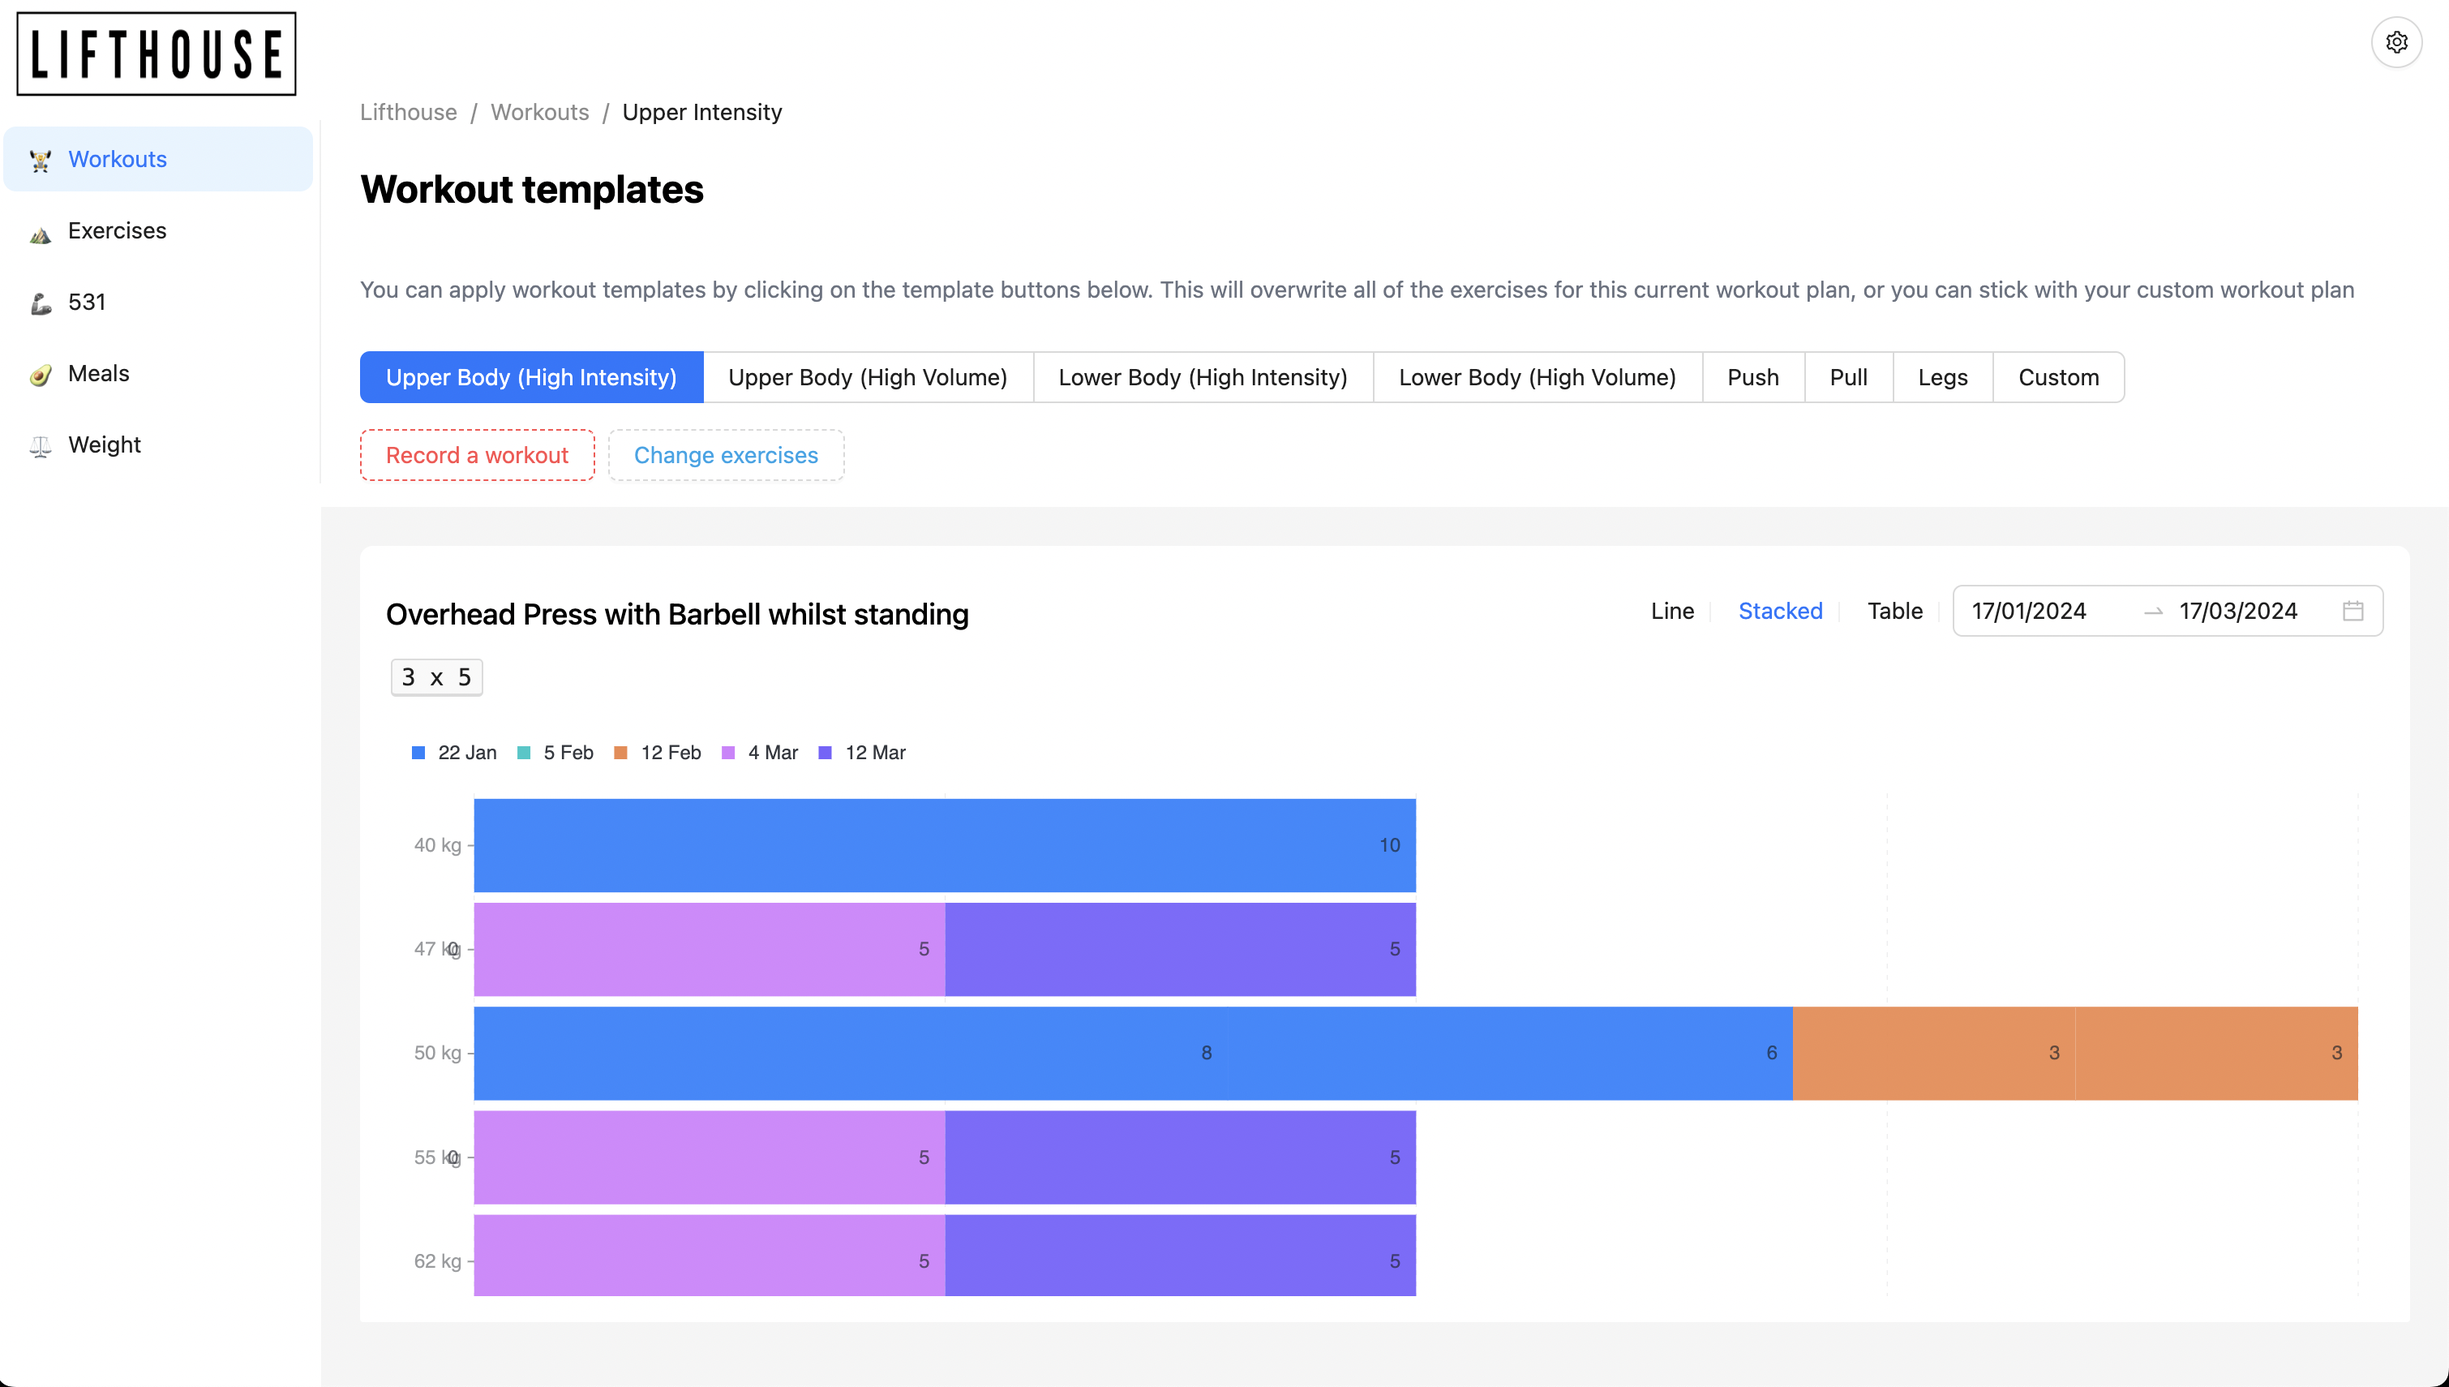
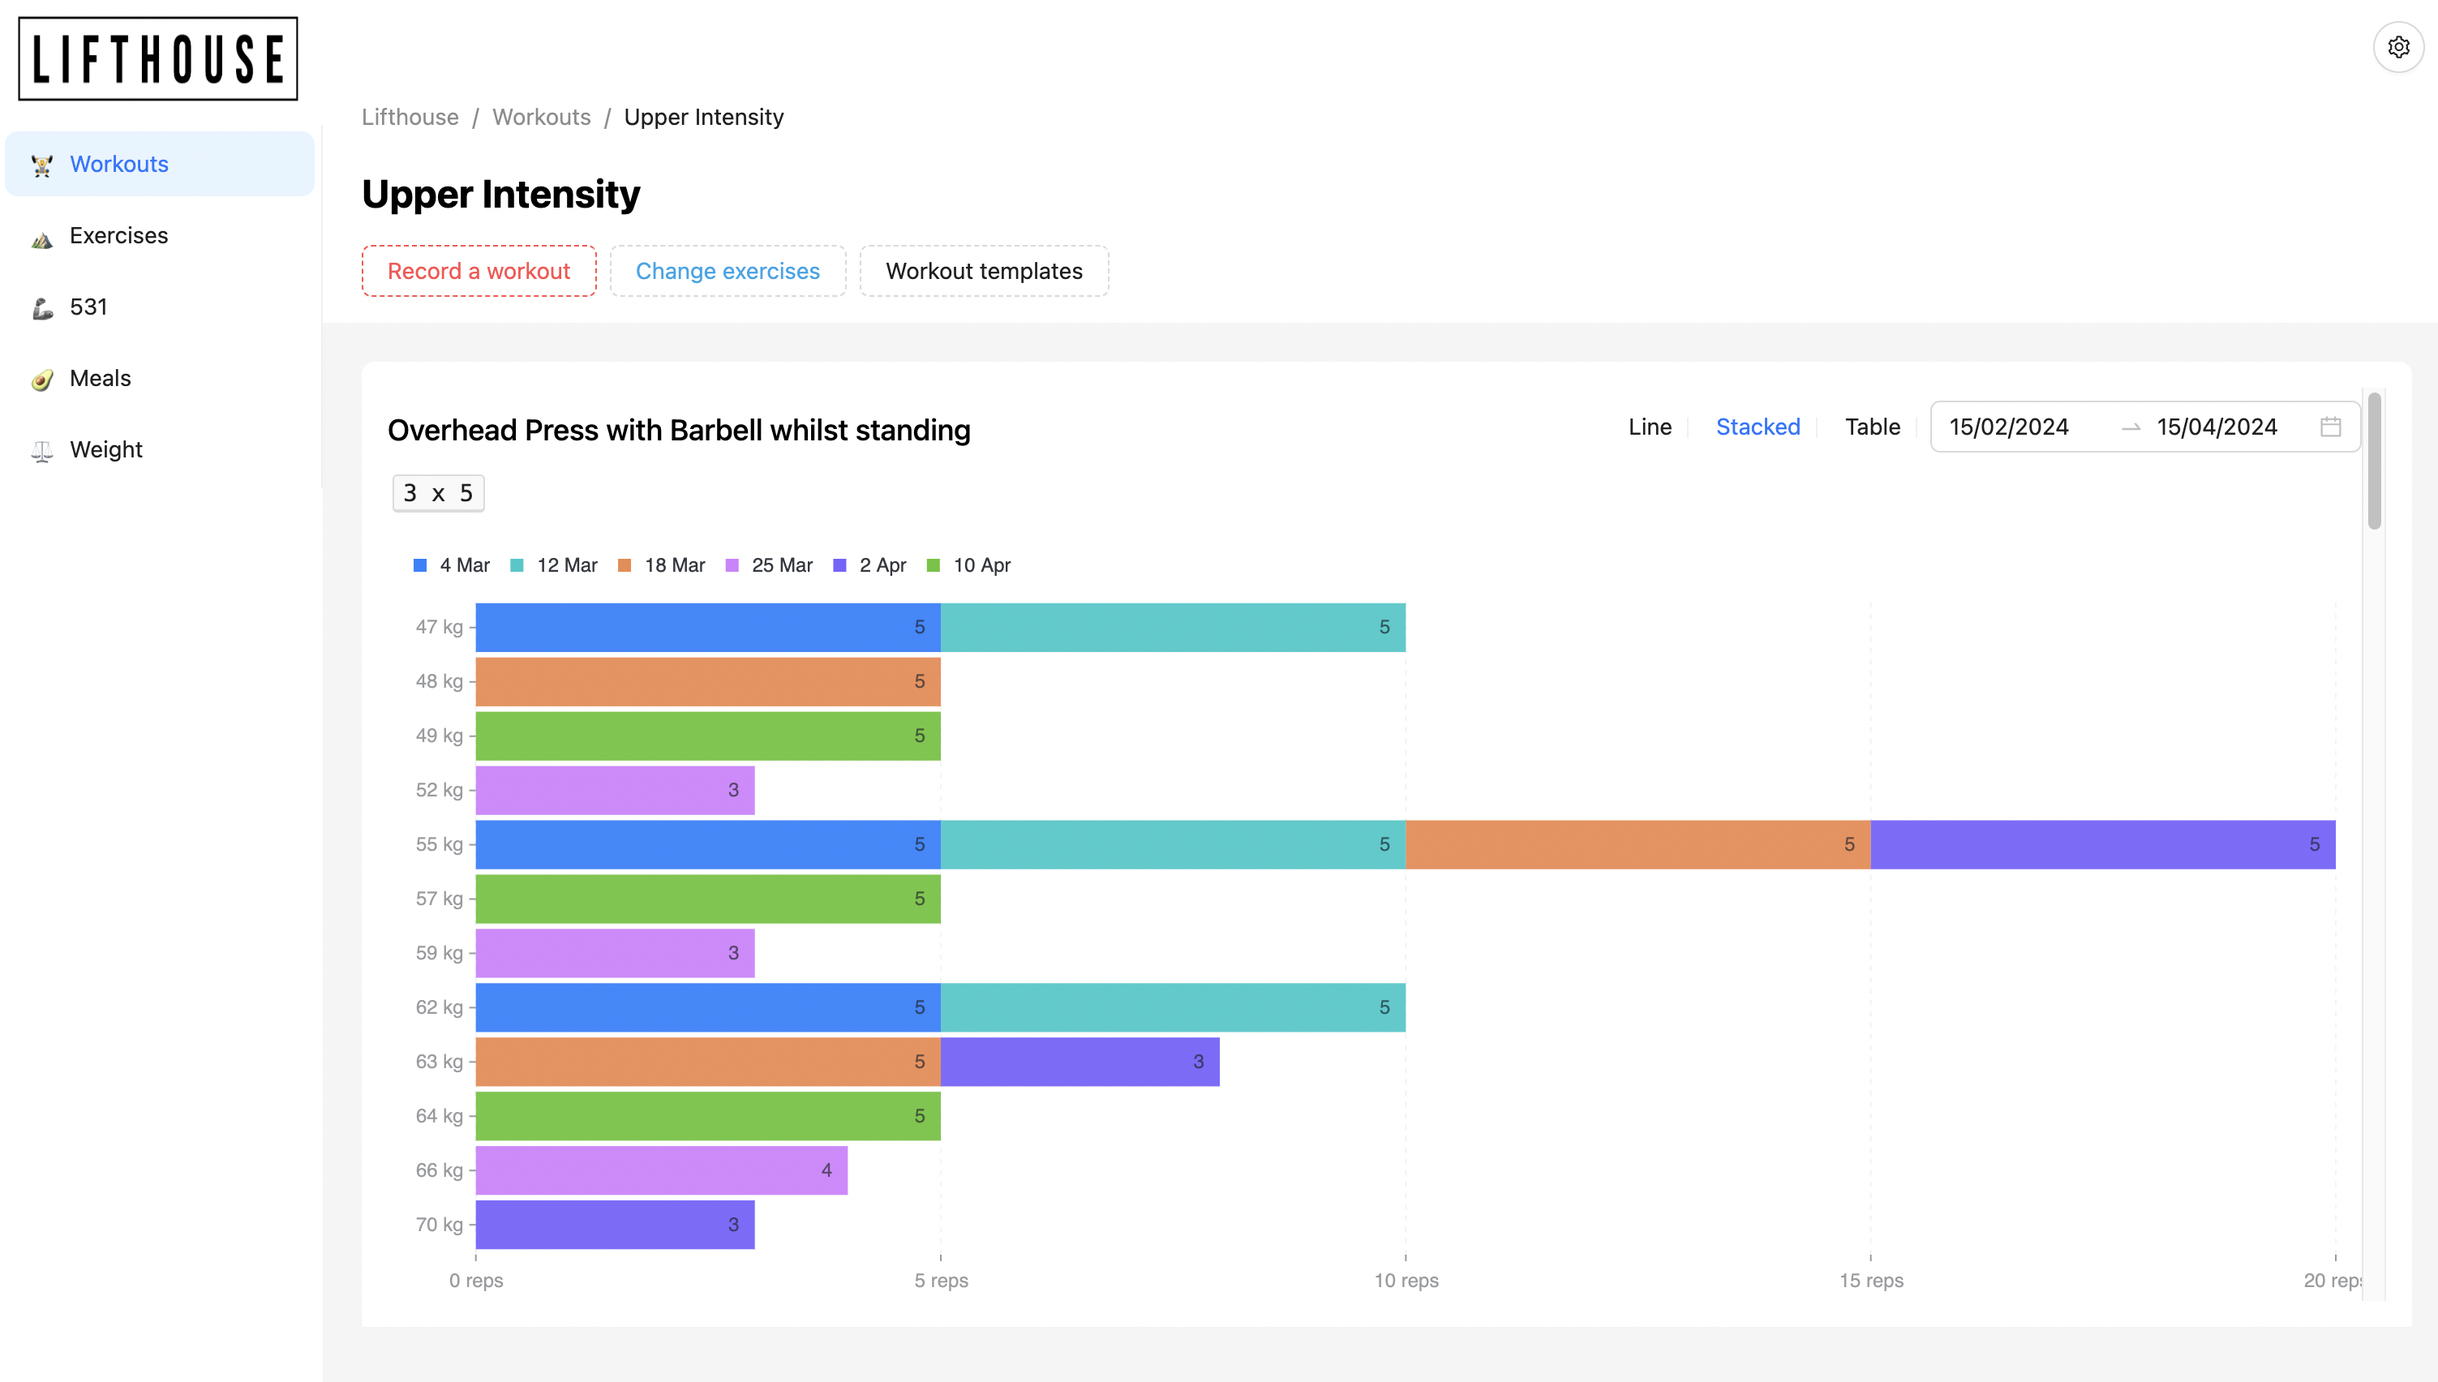
feat: move template info outside of pageinfo to save page space and update readme images

diff --git a/src/app/lifthouse/workouts/[workoutId]/page.tsx b/src/app/lifthouse/workouts/[workoutId]/page.tsx
@@ -1,18 +1,18 @@
 "use client";
 
-import { Button, Layout, Modal, Radio, Space, Tabs } from "antd";
+import { Button, Layout, Modal, Radio, Space } from "antd";
 import { PageInfoPortal } from "../../components/pageInfo";
 import { useState } from "react";
 import AddButton from "../components/addButton";
 import AddExerciseDrawer from "./components/drawers/addExerciseDrawer";
 import { useWorkout } from "../hooks/useWorkout";
 import { WorkoutTemplate } from "@/lib/supabase/db/types";
-import { templateName } from "./utils";
 import { PageAnimation } from "@/app/aniamtions/pageAnimation";
 import { Record } from "./components/drawers/recordDrawer";
 import dynamic from "next/dynamic";
 import { useWorkoutIdContext } from "./context";
 import ChangeExercisesDrawer from "./components/drawers/changeExercisesDrawer";
+import TemplateDrawer from "./components/drawers/templateDrawer";
 
 const Charts = dynamic(() => import("./charts"));
 
@@ -24,6 +24,7 @@ export default function WorkoutPlanPage() {
   const { updateWorkoutPlan, updateTemplate } = useWorkout();
   const [showRecord, setShowRecord] = useState(false);
   const [showEdit, setShowEdit] = useState(false);
+  const [showTemplate, setShowTemplate] = useState(false);
 
   const onAddExerciseClick = async (exerciseId: number) => {
     const defaultExerciseSetup = { exerciseId, sets: 3, reps: "8-12" };
@@ -42,19 +43,6 @@ export default function WorkoutPlanPage() {
     });
   };
 
-  const onClickWorkoutType = (value: WorkoutTemplate) => {
-    Modal.confirm({
-      title: "Are you sure?",
-      content: "This may overwrite your current workout plan",
-      okText: "Yes",
-      cancelText: "No",
-      onOk: async () => {
-        const updatedData = await updateTemplate(workout.workoutId, value);
-        setWorkout(updatedData);
-      },
-    });
-  };
-
   return (
     <PageAnimation
       className={`${workout.exercises.length === 0 ? "" : "h-full"}`}
@@ -62,16 +50,15 @@ export default function WorkoutPlanPage() {
       <Layout className="relative h-full">
         <Content className="h-full bg-white rounded-sm p-4">
           <PageInfoPortal
-            title="Workout templates"
+            title={workout.name}
             extra={
               <PageInfoExtra
                 onClickRecord={() => setShowRecord(!showRecord)}
                 onClickEdit={() => setShowEdit(!showEdit)}
+                onClickWorkoutTemplate={() => setShowTemplate(!showTemplate)}
               />
             }
-          >
-            <WorkoutPageInfo onClickWorkoutType={onClickWorkoutType} />
-          </PageInfoPortal>
+          />
           <AddExerciseDrawer
             drawOpen={drawOpen}
             setDrawOpen={setDrawOpen}
@@ -83,6 +70,11 @@ export default function WorkoutPlanPage() {
           <ChangeExercisesDrawer
             show={showEdit}
             onCancel={() => setShowEdit(false)}
+          />
+          <TemplateDrawer
+            template={workout.template}
+            show={showTemplate}
+            onCancel={() => setShowTemplate(false)}
           />
           {
             <Record
@@ -110,55 +102,24 @@ export default function WorkoutPlanPage() {
 type Props = {
   onClickRecord: () => void;
   onClickEdit: () => void;
+  onClickWorkoutTemplate: () => void;
 };
-function PageInfoExtra({ onClickRecord, onClickEdit }: Props) {
+function PageInfoExtra({
+  onClickRecord,
+  onClickEdit,
+  onClickWorkoutTemplate,
+}: Props) {
   return (
     <Space>
-      <Button type="dashed" danger className="mt-2 m-0" onClick={onClickRecord}>
+      <Button type="dashed" danger onClick={onClickRecord}>
         Record a workout
       </Button>
-      <Button
-        type="dashed"
-        className="text-sky-500 mt-2 m-0"
-        onClick={onClickEdit}
-      >
+      <Button type="dashed" className="text-sky-500" onClick={onClickEdit}>
         Change exercises
       </Button>
-    </Space>
-  );
-}
-
-function WorkoutPageInfo({
-  onClickWorkoutType,
-}: {
-  onClickWorkoutType: (value: WorkoutTemplate) => void;
-}) {
-  const {
-    workout: { template },
-  } = useWorkoutIdContext();
-  return (
-    <Space direction="vertical">
-      <p className="m-0 pb-2 text-gray-500">
-        You can apply workout templates by clicking on the template buttons
-        below. This will overwrite all of the exercises for this current workout
-        plan, or you can stick with your custom workout plan
-      </p>
-      <Radio.Group
-        value={template}
-        buttonStyle="solid"
-        onChange={(value) =>
-          onClickWorkoutType(value.target.value as WorkoutTemplate)
-        }
-      >
-        {/* Can add more templates */}
-        {Object.values(WorkoutTemplate).map((template) => {
-          return (
-            <Radio.Button key={template} value={template}>
-              {templateName[template] || template}
-            </Radio.Button>
-          );
-        })}
-      </Radio.Group>
+      <Button type="dashed" onClick={onClickWorkoutTemplate}>
+        Workout templates
+      </Button>
     </Space>
   );
 }

diff --git a/src/app/lifthouse/workouts/[workoutId]/components/drawers/templateDrawer.tsx b/src/app/lifthouse/workouts/[workoutId]/components/drawers/templateDrawer.tsx
@@ -1,0 +1,66 @@
+import { Alert, Divider, Drawer, Modal, Radio, Space, Tooltip } from "antd";
+import { useWorkout } from "../../../hooks/useWorkout";
+import { useWorkoutIdContext } from "../../context";
+import { WorkoutTemplate } from "@/lib/supabase/db/types";
+import { templateInfo, templateName } from "../../utils";
+import { InfoCircleOutlined } from "@ant-design/icons";
+import TemplateInfo from "../templateInfo";
+
+type TemplateDrawerProps = {
+  template: string;
+  show: boolean;
+  onCancel: () => void;
+};
+export default function TemplateDrawer({
+  template,
+  show,
+  onCancel,
+}: TemplateDrawerProps) {
+  const { workout, setWorkout } = useWorkoutIdContext();
+  const { updateTemplate } = useWorkout();
+
+  const onClickWorkoutType = (value: WorkoutTemplate) => {
+    Modal.confirm({
+      title: "Are you sure?",
+      content: "This may overwrite your current workout plan",
+      cancelText: "No",
+      onOk: async () => {
+        const updatedData = await updateTemplate(workout.workoutId, value);
+        setWorkout(updatedData);
+        onCancel();
+      },
+    });
+  };
+  return (
+    <Drawer title={"Workout Templates"} open={show} onClose={onCancel}>
+      <Space direction="vertical">
+        {/* <Alert className="m-0 pb-2 text-gray-500"> */}
+        <Alert
+          message="You can apply workout templates by clicking on the template buttons
+          below. This will overwrite all of the exercises for this current
+          workout plan, or you can stick with your custom workout plan"
+        ></Alert>
+        <Radio.Group
+          value={workout.template}
+          buttonStyle="solid"
+          onChange={(value) =>
+            onClickWorkoutType(value.target.value as WorkoutTemplate)
+          }
+        >
+          <Space direction="vertical">
+            {/* Can add more templates */}
+            {Object.values(WorkoutTemplate).map((template) => {
+              return (
+                <Radio key={template} value={template}>
+                  {templateName[template] || template}
+                </Radio>
+              );
+            })}
+          </Space>
+        </Radio.Group>
+      </Space>
+      <Divider />
+      <TemplateInfo />
+    </Drawer>
+  );
+}

diff --git a/src/app/lifthouse/workouts/[workoutId]/utils.ts b/src/app/lifthouse/workouts/[workoutId]/utils.ts
@@ -1,10 +1,4 @@
 import { ExerciseType, WorkoutTemplate } from "@/lib/supabase/db/types";
-import {
-  BarChartOutlined,
-  LineChartOutlined,
-  TableOutlined,
-} from "@ant-design/icons";
-import { View } from "../../types";
 
 export const IntensityRepRange = [
   { sets: 3, reps: "3" },
@@ -69,6 +63,22 @@ export const templateName = {
   [WorkoutTemplate.pull]: "Pull",
   [WorkoutTemplate.legs]: "Legs",
   [WorkoutTemplate.custom]: "Custom",
+};
+
+export const templateInfo = {
+  [WorkoutTemplate.upper_intensity]:
+    "Focuses on working out well rounded upper body, hitting all muscle groups in the upper body equally in one session. Primiarily lifting heavy weights and prioritising the compound movements",
+  [WorkoutTemplate.upper_volume]:
+    "Focuses on working out well rounded upper body, hitting all muscle grups in the upper body equally in one session. Primarily focuses on lifting lighter weights but with the mission of having a high amount of volume, so more sets and reps",
+  [WorkoutTemplate.lower_intensity]:
+    "Focuses on working out well rounded lower body, hitting all muscle groups in the upper body equally in one session. Primiarily lifting heavy weights and prioritising the compound movements",
+  [WorkoutTemplate.lower_volume]:
+    "Focuses on working out well rounded lower body, hitting all muscle grups in the upper body equally in one session. Primarily focuses on lifting lighter weights but with the mission of having a high amount of volume, so more sets and reps",
+  [WorkoutTemplate.push]: "Primarily focus on the pushing movements",
+  [WorkoutTemplate.pull]: "Primarily focus on the pulling movements",
+  [WorkoutTemplate.legs]: "Primarily focus on the leg movements",
+  [WorkoutTemplate.custom]:
+    "Create your own custom workout with your own chosen exercises and rep schemes",
 };
 
 export function acceptedExerciseTypesForExercises(template: WorkoutTemplate) {

diff --git a/src/app/lifthouse/meals/components/macroNutrients.tsx b/src/app/lifthouse/meals/components/macroNutrients.tsx
@@ -2,12 +2,15 @@ import React from "react";
 import NumberText from "./number";
 import { HIGHLIGHT_COLOR } from "./constants";
 import { Pie, PieConfig } from "@ant-design/plots";
+import { Skeleton, Spin } from "antd";
+import { LoadingOutlined } from "@ant-design/icons";
 
 interface MacroNutrientsProps {
   calories: number;
   protein: number;
   carbs: number;
   fat: number;
+  isLoading?: boolean;
 }
 
 const MacroNutrients: React.FC<MacroNutrientsProps> = ({
@@ -15,6 +18,7 @@ const MacroNutrients: React.FC<MacroNutrientsProps> = ({
   protein,
   fat,
   carbs,
+  isLoading,
 }) => {
   const config: PieConfig = {
     data: [
@@ -36,22 +40,33 @@ const MacroNutrients: React.FC<MacroNutrientsProps> = ({
     },
   };
 
+  if (isLoading) {
+    return (
+      <Spin
+        style={{ margin: 16 }}
+        indicator={<LoadingOutlined style={{ fontSize: 128 }} spin />}
+      />
+    );
+  }
+
   return (
-    <div className="w-72">
+    <div>
       <div
         className={`flex justify-evenly text-center text-2xl ${HIGHLIGHT_COLOR}`}
       >
         <p className="text-black">Calories</p>
         <NumberText value={calories} />
       </div>
-      {(protein > 0 || carbs > 0 || fat > 0) && (
-        <Pie
-          className="pointer-events-none"
-          {...config}
-          height={200}
-          width={300}
-        />
-      )}
+      <div className="w-72">
+        {(protein > 0 || carbs > 0 || fat > 0) && (
+          <Pie
+            className="pointer-events-none"
+            {...config}
+            height={200}
+            width={300}
+          />
+        )}
+      </div>
     </div>
   );
 };

diff --git a/src/app/lifthouse/workouts/[workoutId]/components/templateInfo.tsx b/src/app/lifthouse/workouts/[workoutId]/components/templateInfo.tsx
@@ -1,0 +1,26 @@
+import { Typography } from "antd";
+import { templateInfo, templateName } from "../utils";
+import { WorkoutTemplate } from "@/lib/supabase/db/types";
+
+const { Text } = Typography;
+
+export default function TemplateInfo() {
+  return (
+    <div>
+      <h1>Template Info</h1>
+      <Text className="text-gray-600">
+        With templates, you can easily create or apply pre-configured workout
+        plans to suit with your goals. Each template will have its own sets of
+        exercise, sets and rep schemes, which you can adjust. The template will
+        give you options on what exercises to do and how many sets and reps to
+        do.
+      </Text>
+      {Object.keys(templateInfo).map((key) => (
+        <div key={key}>
+          <h3>{templateName[key as WorkoutTemplate]}</h3>
+          <Text>{templateInfo[key as WorkoutTemplate]}</Text>
+        </div>
+      ))}
+    </div>
+  );
+}

diff --git a/src/app/lifthouse/meals/page.tsx b/src/app/lifthouse/meals/page.tsx
@@ -81,15 +81,18 @@ export default function MealsPage() {
   const carbs = mealData?.reduce((acc, curr) => acc + curr.carbs, 0) || 0;
 
   return (
-    <PageAnimation className="flex flex-col items-center">
+    <PageAnimation className="flex flex-col items-center bg-white h-full overflow-y-auto">
       <DateMover selectedDay={selectedDay} setSelectedDay={setSelectedDay} />
       <MacroNutrients
+        isLoading={isLoading}
         calories={calories}
         protein={protein}
         fat={fat}
         carbs={carbs}
       />
       <Tabs
+        type="card"
+        className="p-4"
         style={{ width: "100%" }}
         activeKey={activeTab}
         onChange={setActivetab}

diff --git a/src/app/lifthouse/components/pageInfo.tsx b/src/app/lifthouse/components/pageInfo.tsx
@@ -57,7 +57,7 @@ export function PageInfoPortal({ children, extra, title }: Props) {
           <div className={`${showInfo ? "block" : "hidden"} sm:block`}>
             {children}
           </div>
-          {extra}
+          <div className="w-full overflow-x-auto">{extra}</div>
           {children && (
             <Button
               onClick={() => setShowInfo(!showInfo)}

diff --git a/src/app/lifthouse/workouts/[workoutId]/components/drawers/changeExercisesDrawer.tsx b/src/app/lifthouse/workouts/[workoutId]/components/drawers/changeExercisesDrawer.tsx
@@ -79,7 +79,6 @@ export default function ChangeExercisesDrawer({ show, onCancel }: Props) {
 
   return (
     <Drawer
-      width={"100%"}
       open={show}
       onClose={onCancel}
       title="Change exercises"
